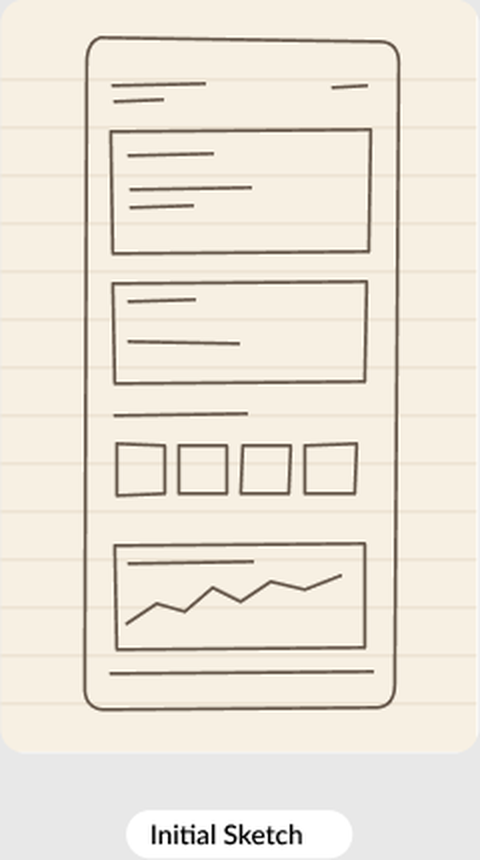
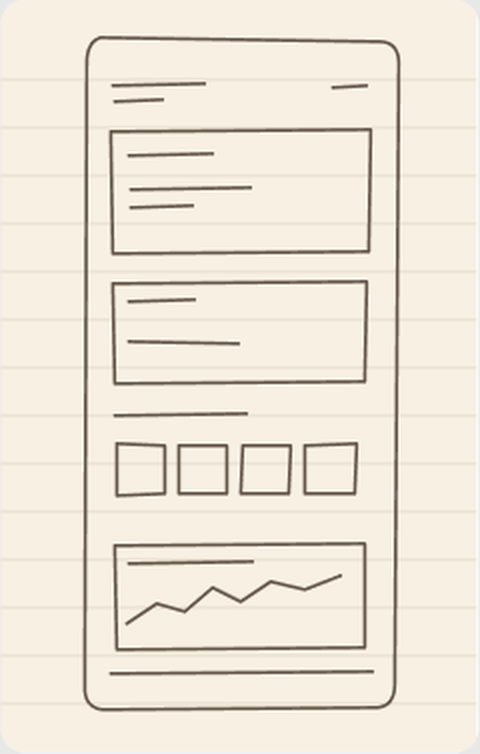
fix(finaxa): eliminate duplicate wireframe labels and refine evolution stage layout

diff --git a/work/finaxa.html b/work/finaxa.html
@@ -575,7 +575,7 @@
         </div>
 
         <!-- Charles Honig Step-by-Step Evolution Animated Stage -->
-        <div class="design-evolution-stage relative w-full aspect-[1158/640] rounded-[24px] sm:rounded-[28px] overflow-hidden bg-[#e9eaec] border border-black/5 shadow-xs select-none cursor-pointer" style="container-type: inline-size; --su: calc(100cqw / 1158);" data-cursor-label="Click to Replay">
+        <div class="design-evolution-stage relative w-full aspect-[1158/550] rounded-[24px] sm:rounded-[28px] overflow-hidden bg-[#e9eaec] border border-black/5 shadow-xs select-none cursor-pointer" style="container-type: inline-size; --su: calc(100cqw / 1158);" data-cursor-label="Click to Replay">
           
           <!-- Replay Button Overlay -->
           <button type="button" class="evolution-replay-btn absolute top-[16px] right-[16px] z-30 flex items-center gap-1.5 px-3 py-1.5 rounded-full bg-white/90 backdrop-blur-md border border-black/10 text-[12px] font-semibold text-[#1a1a1a] hover:bg-black hover:text-white transition-all shadow-xs cursor-pointer" data-cursor-label="Replay">
@@ -587,57 +587,57 @@
           </button>
 
           <!-- Card 1: Initial Sketch (z-index: 14) -->
-          <div class="evo-card evo-card-1 absolute overflow-hidden rounded-[14px] shadow-lg pointer-events-none" style="left: calc(var(--su) * 44); top: calc(var(--su) * 72); width: calc(var(--su) * 240); height: calc(var(--su) * 430); z-index: 14; will-change: transform, opacity;">
+          <div class="evo-card evo-card-1 absolute overflow-hidden rounded-[14px] shadow-lg pointer-events-none" style="left: calc(var(--su) * 44); top: calc(var(--su) * 60); width: calc(var(--su) * 240); height: calc(var(--su) * 377); z-index: 14; will-change: transform, opacity;">
             <img src="../assets/figma/finaxa_evolution_sketch.png" alt="Finaxa Initial Sketch" class="w-full h-full object-cover object-top block" />
           </div>
 
           <!-- Arrow 1 (z-index: 10) -->
-          <svg aria-hidden="true" width="29.711" height="8.66" viewBox="0 0 29.711 8.66025" fill="none" class="evo-arrow evo-arrow-1 absolute pointer-events-none text-black/70" style="left: calc(var(--su) * 306); top: calc(var(--su) * 280); width: calc(var(--su) * 32); height: calc(var(--su) * 10); z-index: 10; will-change: transform, opacity;">
+          <svg aria-hidden="true" width="29.711" height="8.66" viewBox="0 0 29.711 8.66025" fill="none" class="evo-arrow evo-arrow-1 absolute pointer-events-none text-black/70" style="left: calc(var(--su) * 306); top: calc(var(--su) * 244); width: calc(var(--su) * 32); height: calc(var(--su) * 10); z-index: 10; will-change: transform, opacity;">
             <path d="M0.75 4.33013H22.961" stroke="currentColor" stroke-width="1.8" stroke-linecap="round"></path>
             <path d="M29.711 4.33013L22.211 0V8.66025Z" fill="currentColor"></path>
           </svg>
 
           <!-- Card 2: 1st Wireframe (z-index: 13) -->
-          <div class="evo-card evo-card-2 absolute overflow-hidden rounded-[14px] shadow-lg pointer-events-none" style="left: calc(var(--su) * 360); top: calc(var(--su) * 72); width: calc(var(--su) * 174); height: calc(var(--su) * 430); z-index: 13; will-change: transform, opacity;">
+          <div class="evo-card evo-card-2 absolute overflow-hidden rounded-[14px] shadow-lg pointer-events-none" style="left: calc(var(--su) * 360); top: calc(var(--su) * 60); width: calc(var(--su) * 174); height: calc(var(--su) * 377); z-index: 13; will-change: transform, opacity;">
             <img src="../assets/figma/finaxa_evolution_wireframe1.png" alt="Finaxa 1st Wireframe" class="w-full h-full object-cover object-top block" />
           </div>
 
           <!-- Arrow 2 (z-index: 10) -->
-          <svg aria-hidden="true" width="29.711" height="8.66" viewBox="0 0 29.711 8.66025" fill="none" class="evo-arrow evo-arrow-2 absolute pointer-events-none text-black/70" style="left: calc(var(--su) * 556); top: calc(var(--su) * 280); width: calc(var(--su) * 32); height: calc(var(--su) * 10); z-index: 10; will-change: transform, opacity;">
+          <svg aria-hidden="true" width="29.711" height="8.66" viewBox="0 0 29.711 8.66025" fill="none" class="evo-arrow evo-arrow-2 absolute pointer-events-none text-black/70" style="left: calc(var(--su) * 556); top: calc(var(--su) * 244); width: calc(var(--su) * 32); height: calc(var(--su) * 10); z-index: 10; will-change: transform, opacity;">
             <path d="M0.75 4.33013H22.961" stroke="currentColor" stroke-width="1.8" stroke-linecap="round"></path>
             <path d="M29.711 4.33013L22.211 0V8.66025Z" fill="currentColor"></path>
           </svg>
 
           <!-- Card 3: 2nd Wireframe (z-index: 12) -->
-          <div class="evo-card evo-card-3 absolute overflow-hidden rounded-[14px] shadow-lg pointer-events-none" style="left: calc(var(--su) * 610); top: calc(var(--su) * 72); width: calc(var(--su) * 174); height: calc(var(--su) * 430); z-index: 12; will-change: transform, opacity;">
+          <div class="evo-card evo-card-3 absolute overflow-hidden rounded-[14px] shadow-lg pointer-events-none" style="left: calc(var(--su) * 610); top: calc(var(--su) * 60); width: calc(var(--su) * 174); height: calc(var(--su) * 377); z-index: 12; will-change: transform, opacity;">
             <img src="../assets/figma/finaxa_evolution_wireframe2.png" alt="Finaxa 2nd Wireframe" class="w-full h-full object-cover object-top block" />
           </div>
 
           <!-- Arrow 3 (z-index: 10) -->
-          <svg aria-hidden="true" width="29.711" height="8.66" viewBox="0 0 29.711 8.66025" fill="none" class="evo-arrow evo-arrow-3 absolute pointer-events-none text-black/70" style="left: calc(var(--su) * 806); top: calc(var(--su) * 280); width: calc(var(--su) * 32); height: calc(var(--su) * 10); z-index: 10; will-change: transform, opacity;">
+          <svg aria-hidden="true" width="29.711" height="8.66" viewBox="0 0 29.711 8.66025" fill="none" class="evo-arrow evo-arrow-3 absolute pointer-events-none text-black/70" style="left: calc(var(--su) * 806); top: calc(var(--su) * 244); width: calc(var(--su) * 32); height: calc(var(--su) * 10); z-index: 10; will-change: transform, opacity;">
             <path d="M0.75 4.33013H22.961" stroke="currentColor" stroke-width="1.8" stroke-linecap="round"></path>
             <path d="M29.711 4.33013L22.211 0V8.66025Z" fill="currentColor"></path>
           </svg>
 
           <!-- Card 4: Final Design (z-index: 11) -->
-          <div class="evo-card evo-card-4 absolute overflow-hidden rounded-[14px] shadow-2xl pointer-events-none" style="left: calc(var(--su) * 860); top: calc(var(--su) * 72); width: calc(var(--su) * 174); height: calc(var(--su) * 430); z-index: 11; will-change: transform, opacity;">
+          <div class="evo-card evo-card-4 absolute overflow-hidden rounded-[14px] shadow-2xl pointer-events-none" style="left: calc(var(--su) * 860); top: calc(var(--su) * 60); width: calc(var(--su) * 174); height: calc(var(--su) * 377); z-index: 11; will-change: transform, opacity;">
             <img src="../assets/figma/finaxa_evolution_final.png" alt="Finaxa Final Design" class="w-full h-full object-cover object-top block" />
           </div>
 
-          <!-- Label Chips -->
-          <div class="evo-pill evo-pill-1 absolute -translate-x-1/2 rounded-full px-[14px] py-[6px] bg-white border border-black/5 shadow-xs pointer-events-none whitespace-nowrap" style="left: calc(var(--su) * 164); top: calc(var(--su) * 540); z-index: 20; will-change: transform, opacity;">
+          <!-- Single Row of Label Chips -->
+          <div class="evo-pill evo-pill-1 absolute -translate-x-1/2 rounded-full px-[14px] py-[6px] bg-white border border-black/5 shadow-xs pointer-events-none whitespace-nowrap" style="left: calc(var(--su) * 164); top: calc(var(--su) * 468); z-index: 20; will-change: transform, opacity;">
             <p class="text-[13px] sm:text-[14px] font-bold text-[#1a1a1a] leading-none" style="font-size: calc(max(10px, var(--su) * 14));">Initial Sketch</p>
           </div>
 
-          <div class="evo-pill evo-pill-2 absolute -translate-x-1/2 rounded-full px-[14px] py-[6px] bg-white border border-black/5 shadow-xs pointer-events-none whitespace-nowrap" style="left: calc(var(--su) * 447); top: calc(var(--su) * 540); z-index: 20; will-change: transform, opacity;">
+          <div class="evo-pill evo-pill-2 absolute -translate-x-1/2 rounded-full px-[14px] py-[6px] bg-white border border-black/5 shadow-xs pointer-events-none whitespace-nowrap" style="left: calc(var(--su) * 447); top: calc(var(--su) * 468); z-index: 20; will-change: transform, opacity;">
             <p class="text-[13px] sm:text-[14px] font-bold text-[#1a1a1a] leading-none" style="font-size: calc(max(10px, var(--su) * 14));">1st Wireframe</p>
           </div>
 
-          <div class="evo-pill evo-pill-3 absolute -translate-x-1/2 rounded-full px-[14px] py-[6px] bg-white border border-black/5 shadow-xs pointer-events-none whitespace-nowrap" style="left: calc(var(--su) * 697); top: calc(var(--su) * 540); z-index: 20; will-change: transform, opacity;">
+          <div class="evo-pill evo-pill-3 absolute -translate-x-1/2 rounded-full px-[14px] py-[6px] bg-white border border-black/5 shadow-xs pointer-events-none whitespace-nowrap" style="left: calc(var(--su) * 697); top: calc(var(--su) * 468); z-index: 20; will-change: transform, opacity;">
             <p class="text-[13px] sm:text-[14px] font-bold text-[#1a1a1a] leading-none" style="font-size: calc(max(10px, var(--su) * 14));">2nd Wireframe</p>
           </div>
 
-          <div class="evo-pill evo-pill-4 absolute -translate-x-1/2 rounded-full px-[14px] py-[6px] bg-[#dcfce7] border border-[#86efac] shadow-xs pointer-events-none whitespace-nowrap" style="left: calc(var(--su) * 947); top: calc(var(--su) * 540); z-index: 20; will-change: transform, opacity;">
+          <div class="evo-pill evo-pill-4 absolute -translate-x-1/2 rounded-full px-[14px] py-[6px] bg-[#dcfce7] border border-[#86efac] shadow-xs pointer-events-none whitespace-nowrap" style="left: calc(var(--su) * 947); top: calc(var(--su) * 468); z-index: 20; will-change: transform, opacity;">
             <p class="text-[13px] sm:text-[14px] font-bold text-[#15803d] leading-none" style="font-size: calc(max(10px, var(--su) * 14));">Final Design</p>
           </div>
 

diff --git a/finaxa.html b/finaxa.html
@@ -575,7 +575,7 @@
         </div>
 
         <!-- Charles Honig Step-by-Step Evolution Animated Stage -->
-        <div class="design-evolution-stage relative w-full aspect-[1158/640] rounded-[24px] sm:rounded-[28px] overflow-hidden bg-[#e9eaec] border border-black/5 shadow-xs select-none cursor-pointer" style="container-type: inline-size; --su: calc(100cqw / 1158);" data-cursor-label="Click to Replay">
+        <div class="design-evolution-stage relative w-full aspect-[1158/550] rounded-[24px] sm:rounded-[28px] overflow-hidden bg-[#e9eaec] border border-black/5 shadow-xs select-none cursor-pointer" style="container-type: inline-size; --su: calc(100cqw / 1158);" data-cursor-label="Click to Replay">
           
           <!-- Replay Button Overlay -->
           <button type="button" class="evolution-replay-btn absolute top-[16px] right-[16px] z-30 flex items-center gap-1.5 px-3 py-1.5 rounded-full bg-white/90 backdrop-blur-md border border-black/10 text-[12px] font-semibold text-[#1a1a1a] hover:bg-black hover:text-white transition-all shadow-xs cursor-pointer" data-cursor-label="Replay">
@@ -587,57 +587,57 @@
           </button>
 
           <!-- Card 1: Initial Sketch (z-index: 14) -->
-          <div class="evo-card evo-card-1 absolute overflow-hidden rounded-[14px] shadow-lg pointer-events-none" style="left: calc(var(--su) * 44); top: calc(var(--su) * 72); width: calc(var(--su) * 240); height: calc(var(--su) * 430); z-index: 14; will-change: transform, opacity;">
+          <div class="evo-card evo-card-1 absolute overflow-hidden rounded-[14px] shadow-lg pointer-events-none" style="left: calc(var(--su) * 44); top: calc(var(--su) * 60); width: calc(var(--su) * 240); height: calc(var(--su) * 377); z-index: 14; will-change: transform, opacity;">
             <img src="./assets/figma/finaxa_evolution_sketch.png" alt="Finaxa Initial Sketch" class="w-full h-full object-cover object-top block" />
           </div>
 
           <!-- Arrow 1 (z-index: 10) -->
-          <svg aria-hidden="true" width="29.711" height="8.66" viewBox="0 0 29.711 8.66025" fill="none" class="evo-arrow evo-arrow-1 absolute pointer-events-none text-black/70" style="left: calc(var(--su) * 306); top: calc(var(--su) * 280); width: calc(var(--su) * 32); height: calc(var(--su) * 10); z-index: 10; will-change: transform, opacity;">
+          <svg aria-hidden="true" width="29.711" height="8.66" viewBox="0 0 29.711 8.66025" fill="none" class="evo-arrow evo-arrow-1 absolute pointer-events-none text-black/70" style="left: calc(var(--su) * 306); top: calc(var(--su) * 244); width: calc(var(--su) * 32); height: calc(var(--su) * 10); z-index: 10; will-change: transform, opacity;">
             <path d="M0.75 4.33013H22.961" stroke="currentColor" stroke-width="1.8" stroke-linecap="round"></path>
             <path d="M29.711 4.33013L22.211 0V8.66025Z" fill="currentColor"></path>
           </svg>
 
           <!-- Card 2: 1st Wireframe (z-index: 13) -->
-          <div class="evo-card evo-card-2 absolute overflow-hidden rounded-[14px] shadow-lg pointer-events-none" style="left: calc(var(--su) * 360); top: calc(var(--su) * 72); width: calc(var(--su) * 174); height: calc(var(--su) * 430); z-index: 13; will-change: transform, opacity;">
+          <div class="evo-card evo-card-2 absolute overflow-hidden rounded-[14px] shadow-lg pointer-events-none" style="left: calc(var(--su) * 360); top: calc(var(--su) * 60); width: calc(var(--su) * 174); height: calc(var(--su) * 377); z-index: 13; will-change: transform, opacity;">
             <img src="./assets/figma/finaxa_evolution_wireframe1.png" alt="Finaxa 1st Wireframe" class="w-full h-full object-cover object-top block" />
           </div>
 
           <!-- Arrow 2 (z-index: 10) -->
-          <svg aria-hidden="true" width="29.711" height="8.66" viewBox="0 0 29.711 8.66025" fill="none" class="evo-arrow evo-arrow-2 absolute pointer-events-none text-black/70" style="left: calc(var(--su) * 556); top: calc(var(--su) * 280); width: calc(var(--su) * 32); height: calc(var(--su) * 10); z-index: 10; will-change: transform, opacity;">
+          <svg aria-hidden="true" width="29.711" height="8.66" viewBox="0 0 29.711 8.66025" fill="none" class="evo-arrow evo-arrow-2 absolute pointer-events-none text-black/70" style="left: calc(var(--su) * 556); top: calc(var(--su) * 244); width: calc(var(--su) * 32); height: calc(var(--su) * 10); z-index: 10; will-change: transform, opacity;">
             <path d="M0.75 4.33013H22.961" stroke="currentColor" stroke-width="1.8" stroke-linecap="round"></path>
             <path d="M29.711 4.33013L22.211 0V8.66025Z" fill="currentColor"></path>
           </svg>
 
           <!-- Card 3: 2nd Wireframe (z-index: 12) -->
-          <div class="evo-card evo-card-3 absolute overflow-hidden rounded-[14px] shadow-lg pointer-events-none" style="left: calc(var(--su) * 610); top: calc(var(--su) * 72); width: calc(var(--su) * 174); height: calc(var(--su) * 430); z-index: 12; will-change: transform, opacity;">
+          <div class="evo-card evo-card-3 absolute overflow-hidden rounded-[14px] shadow-lg pointer-events-none" style="left: calc(var(--su) * 610); top: calc(var(--su) * 60); width: calc(var(--su) * 174); height: calc(var(--su) * 377); z-index: 12; will-change: transform, opacity;">
             <img src="./assets/figma/finaxa_evolution_wireframe2.png" alt="Finaxa 2nd Wireframe" class="w-full h-full object-cover object-top block" />
           </div>
 
           <!-- Arrow 3 (z-index: 10) -->
-          <svg aria-hidden="true" width="29.711" height="8.66" viewBox="0 0 29.711 8.66025" fill="none" class="evo-arrow evo-arrow-3 absolute pointer-events-none text-black/70" style="left: calc(var(--su) * 806); top: calc(var(--su) * 280); width: calc(var(--su) * 32); height: calc(var(--su) * 10); z-index: 10; will-change: transform, opacity;">
+          <svg aria-hidden="true" width="29.711" height="8.66" viewBox="0 0 29.711 8.66025" fill="none" class="evo-arrow evo-arrow-3 absolute pointer-events-none text-black/70" style="left: calc(var(--su) * 806); top: calc(var(--su) * 244); width: calc(var(--su) * 32); height: calc(var(--su) * 10); z-index: 10; will-change: transform, opacity;">
             <path d="M0.75 4.33013H22.961" stroke="currentColor" stroke-width="1.8" stroke-linecap="round"></path>
             <path d="M29.711 4.33013L22.211 0V8.66025Z" fill="currentColor"></path>
           </svg>
 
           <!-- Card 4: Final Design (z-index: 11) -->
-          <div class="evo-card evo-card-4 absolute overflow-hidden rounded-[14px] shadow-2xl pointer-events-none" style="left: calc(var(--su) * 860); top: calc(var(--su) * 72); width: calc(var(--su) * 174); height: calc(var(--su) * 430); z-index: 11; will-change: transform, opacity;">
+          <div class="evo-card evo-card-4 absolute overflow-hidden rounded-[14px] shadow-2xl pointer-events-none" style="left: calc(var(--su) * 860); top: calc(var(--su) * 60); width: calc(var(--su) * 174); height: calc(var(--su) * 377); z-index: 11; will-change: transform, opacity;">
             <img src="./assets/figma/finaxa_evolution_final.png" alt="Finaxa Final Design" class="w-full h-full object-cover object-top block" />
           </div>
 
-          <!-- Label Chips -->
-          <div class="evo-pill evo-pill-1 absolute -translate-x-1/2 rounded-full px-[14px] py-[6px] bg-white border border-black/5 shadow-xs pointer-events-none whitespace-nowrap" style="left: calc(var(--su) * 164); top: calc(var(--su) * 540); z-index: 20; will-change: transform, opacity;">
+          <!-- Single Row of Label Chips -->
+          <div class="evo-pill evo-pill-1 absolute -translate-x-1/2 rounded-full px-[14px] py-[6px] bg-white border border-black/5 shadow-xs pointer-events-none whitespace-nowrap" style="left: calc(var(--su) * 164); top: calc(var(--su) * 468); z-index: 20; will-change: transform, opacity;">
             <p class="text-[13px] sm:text-[14px] font-bold text-[#1a1a1a] leading-none" style="font-size: calc(max(10px, var(--su) * 14));">Initial Sketch</p>
           </div>
 
-          <div class="evo-pill evo-pill-2 absolute -translate-x-1/2 rounded-full px-[14px] py-[6px] bg-white border border-black/5 shadow-xs pointer-events-none whitespace-nowrap" style="left: calc(var(--su) * 447); top: calc(var(--su) * 540); z-index: 20; will-change: transform, opacity;">
+          <div class="evo-pill evo-pill-2 absolute -translate-x-1/2 rounded-full px-[14px] py-[6px] bg-white border border-black/5 shadow-xs pointer-events-none whitespace-nowrap" style="left: calc(var(--su) * 447); top: calc(var(--su) * 468); z-index: 20; will-change: transform, opacity;">
             <p class="text-[13px] sm:text-[14px] font-bold text-[#1a1a1a] leading-none" style="font-size: calc(max(10px, var(--su) * 14));">1st Wireframe</p>
           </div>
 
-          <div class="evo-pill evo-pill-3 absolute -translate-x-1/2 rounded-full px-[14px] py-[6px] bg-white border border-black/5 shadow-xs pointer-events-none whitespace-nowrap" style="left: calc(var(--su) * 697); top: calc(var(--su) * 540); z-index: 20; will-change: transform, opacity;">
+          <div class="evo-pill evo-pill-3 absolute -translate-x-1/2 rounded-full px-[14px] py-[6px] bg-white border border-black/5 shadow-xs pointer-events-none whitespace-nowrap" style="left: calc(var(--su) * 697); top: calc(var(--su) * 468); z-index: 20; will-change: transform, opacity;">
             <p class="text-[13px] sm:text-[14px] font-bold text-[#1a1a1a] leading-none" style="font-size: calc(max(10px, var(--su) * 14));">2nd Wireframe</p>
           </div>
 
-          <div class="evo-pill evo-pill-4 absolute -translate-x-1/2 rounded-full px-[14px] py-[6px] bg-[#dcfce7] border border-[#86efac] shadow-xs pointer-events-none whitespace-nowrap" style="left: calc(var(--su) * 947); top: calc(var(--su) * 540); z-index: 20; will-change: transform, opacity;">
+          <div class="evo-pill evo-pill-4 absolute -translate-x-1/2 rounded-full px-[14px] py-[6px] bg-[#dcfce7] border border-[#86efac] shadow-xs pointer-events-none whitespace-nowrap" style="left: calc(var(--su) * 947); top: calc(var(--su) * 468); z-index: 20; will-change: transform, opacity;">
             <p class="text-[13px] sm:text-[14px] font-bold text-[#15803d] leading-none" style="font-size: calc(max(10px, var(--su) * 14));">Final Design</p>
           </div>
 
